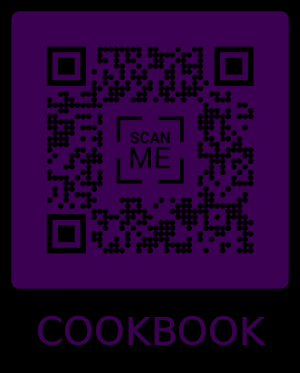
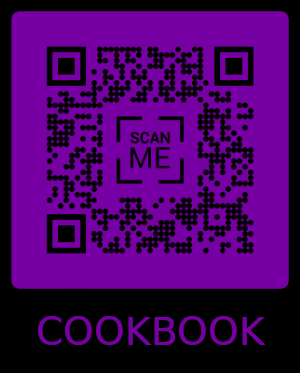
Making the purple brighter for printing so phones can pickup the QR code better.

diff --git a/QR_code/utils.py b/QR_code/utils.py
@@ -31,8 +31,8 @@ def remap(c1: Color, c2: Color, c3: Color, c4: Color, image: Path, new_image: Pa
 
 white = (1.0, 1.0, 1.0, 1.0)
 black = (0.0, 0.0, 0.0, 1.0)
-purple = (0.5, 0.0, 1.0, 1.0)
 purple = (0.235, 0.0, 0.322, 1.0)
+purple = tuple(x * 2.0 for x in purple)
 
 image = Path("QR_code.png")
 new_image = Path("QR_code_recolor.png")
